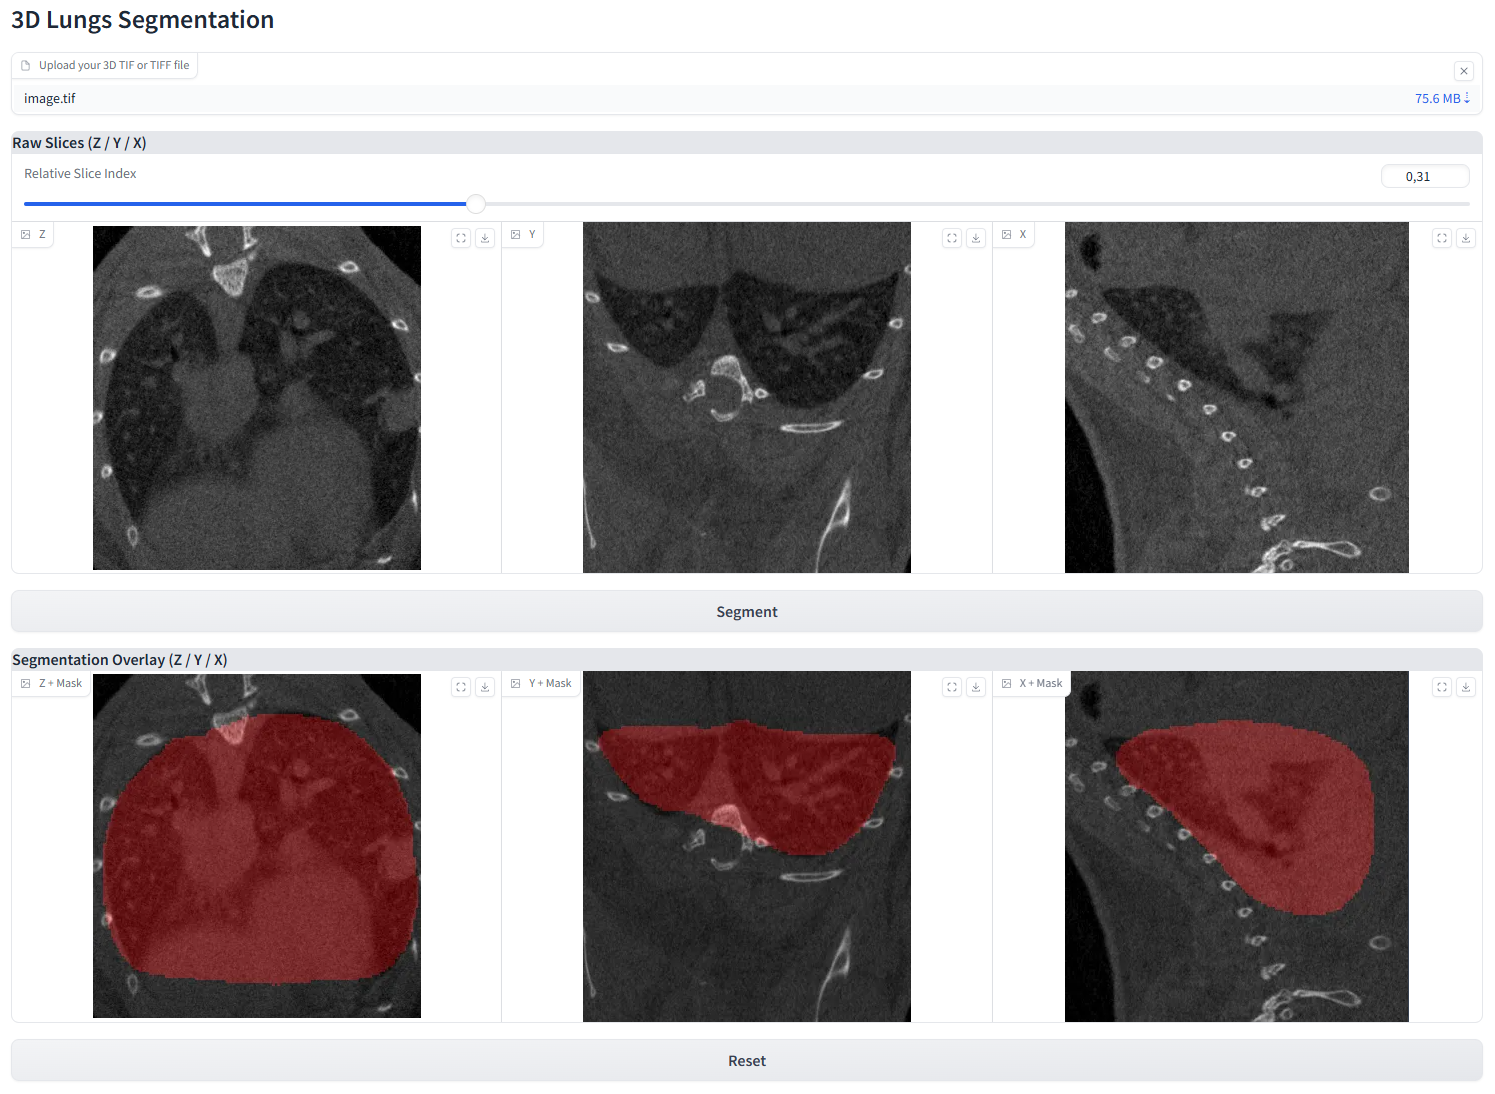
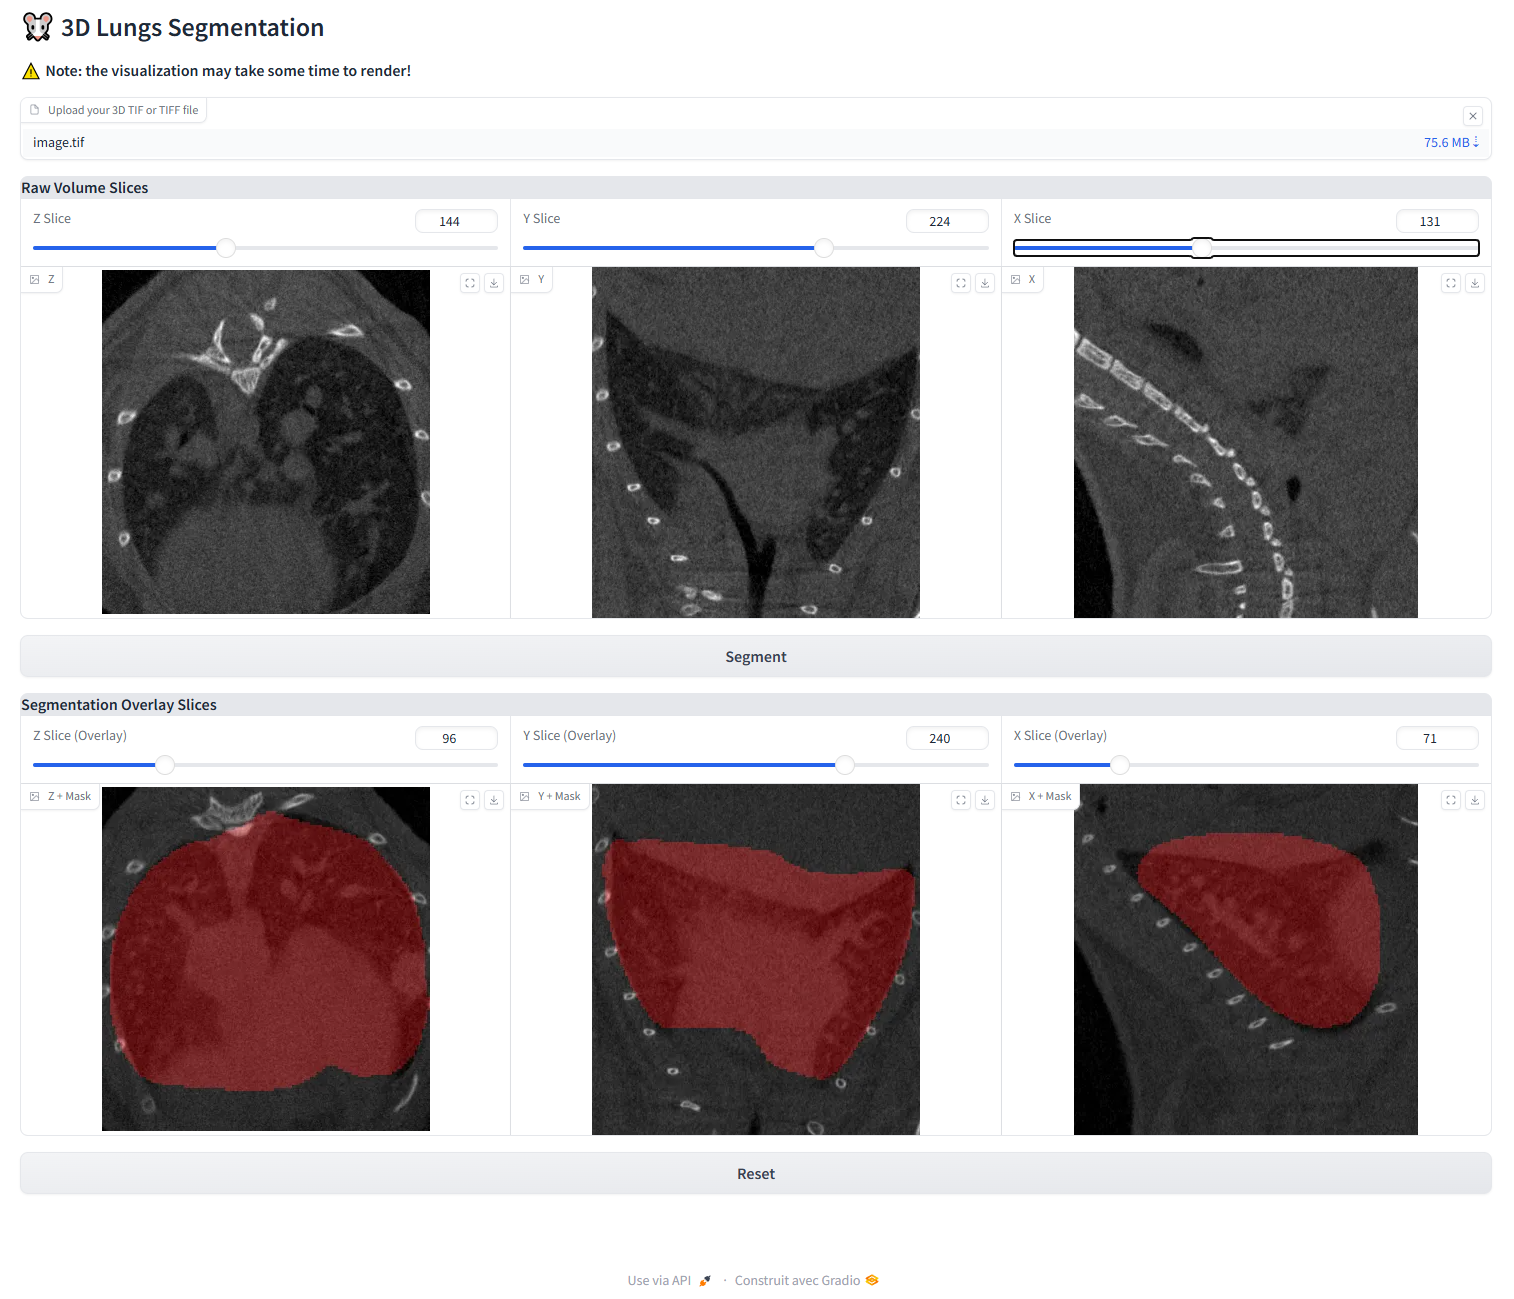
changes to the design of the app

Changed region(s): [[0.0, 0.0, 1.0, 0.9945], [0.2769, 0.2486, 0.3077, 0.2797]]

diff --git a/app.py b/app.py
@@ -1,60 +1,67 @@
 import gradio as gr
 from core.utils import *
 
+def get_axis_max(volume, axis):
+    """Get the maximum index of each axis."""
+    if volume is None:
+        return 0
+    shape = volume.shape
+    return shape[{"Z": 0, "Y": 1, "X": 2}[axis]] - 1
+
 def reset_app():
-    """
-    Reset everything to the initial state:
-      - Clear file input
-      - Clear volume_state, seg_state
-      - Hide both groups
-      - Hide the segment button
-      - Reset sliders + images
-    """
+    """Reset everything to the initial state."""
     return (
         gr.update(value=None),
         None,
         None,
         gr.update(visible=False),
-        gr.update(value=0.5),
-        gr.update(value=None),
-        gr.update(value=None),
-        gr.update(value=None),
+        gr.update(value=0), gr.update(value=0), gr.update(value=0),
+        gr.update(value=None), gr.update(value=None), gr.update(value=None),
         gr.update(visible=False),
-        gr.update(value=None),
-        gr.update(value=None),
-        gr.update(value=None),
+        gr.update(value=0), gr.update(value=0), gr.update(value=0),
+        gr.update(value=None), gr.update(value=None), gr.update(value=None)
     )
 
 with gr.Blocks() as demo:
-    gr.Markdown("# 3D Lungs Segmentation")
+    gr.Markdown("# 🐭 3D Lungs Segmentation")
+    gr.Markdown("### ⚠ Note: the visualization may take some time to render!")
 
     volume_state = gr.State()
     seg_state = gr.State()
 
     file_input = gr.File(file_types=[".tif", ".tiff"], label="Upload your 3D TIF or TIFF file")
 
-    # --- Raw Slice Viewer ---
+    # ---- RAW SLICES VIEWER ----
     with gr.Group(visible=False) as group_input:
-        gr.Markdown("### Raw Slices (Z / Y / X)")
-        rel_slider = gr.Slider(0, 1, step=0.01, value=0.5, label="Relative Slice Index")
+        gr.Markdown("### Raw Volume Slices")
         with gr.Row():
-            img_z = gr.Image(label="Z")
-            img_y = gr.Image(label="Y")
-            img_x = gr.Image(label="X")
+            z_slider = gr.Slider(0, 0, step=1, label="Z Slice")
+            y_slider = gr.Slider(0, 0, step=1, label="Y Slice")
+            x_slider = gr.Slider(0, 0, step=1, label="X Slice")
+        with gr.Row():
+            z_img = gr.Image(label="Z")
+            y_img = gr.Image(label="Y")
+            x_img = gr.Image(label="X")
 
-    segment_btn = gr.Button("Segment", visible=False)
+    segment_btn = gr.Button("Segment", visible=False)   
 
-    # --- Overlay Viewer ---
+    # ---- OVERLAY SLICES VIEWER ----
     with gr.Group(visible=False) as group_seg:
-        gr.Markdown("### Segmentation Overlay (Z / Y / X)")
+        gr.Markdown("### Segmentation Overlay Slices")
         with gr.Row():
-            img_z_overlay = gr.Image(label="Z + Mask")
-            img_y_overlay = gr.Image(label="Y + Mask")
-            img_x_overlay = gr.Image(label="X + Mask")
+            z_slider_seg = gr.Slider(0, 0, step=1, label="Z Slice (Overlay)")
+            y_slider_seg = gr.Slider(0, 0, step=1, label="Y Slice (Overlay)")
+            x_slider_seg = gr.Slider(0, 0, step=1, label="X Slice (Overlay)")
+        with gr.Row():
+            z_img_overlay = gr.Image(label="Z + Mask")
+            y_img_overlay = gr.Image(label="Y + Mask")
+            x_img_overlay = gr.Image(label="X + Mask")
 
     reset_btn = gr.Button("Reset")
 
-    # A) On file upload → load → update state → show viewer → trigger image view
+    # ---- CALLBACKS ----
+
+    # A) Load volume
     file_input.change(
         fn=load_volume,
         inputs=file_input,
@@ -68,19 +75,29 @@ with gr.Blocks() as demo:
         inputs=volume_state,
         outputs=segment_btn
     ).then(
-        fn=browse_all_axes,
-        inputs=[rel_slider, volume_state],
-        outputs=[img_z, img_y, img_x]
+        fn=lambda vol: (
+            gr.update(maximum=get_axis_max(vol, "Z")),
+            gr.update(maximum=get_axis_max(vol, "Y")),
+            gr.update(maximum=get_axis_max(vol, "X")),
+        ),
+        inputs=volume_state,
+        outputs=[z_slider, y_slider, x_slider]
+    ).then(
+        fn=lambda vol: (
+            browse_axis("Z", 0, vol),
+            browse_axis("Y", 0, vol),
+            browse_axis("X", 0, vol),
+        ),
+        inputs=volume_state,
+        outputs=[z_img, y_img, x_img]
     )
 
-    # B) Slider changes raw slices
-    rel_slider.change(
-        fn=browse_all_axes,
-        inputs=[rel_slider, volume_state],
-        outputs=[img_z, img_y, img_x]
-    )
+    # B) RAW sliders
+    z_slider.change(fn=lambda idx, vol: browse_axis("Z", idx, vol), inputs=[z_slider, volume_state], outputs=z_img)
+    y_slider.change(fn=lambda idx, vol: browse_axis("Y", idx, vol), inputs=[y_slider, volume_state], outputs=y_img)
+    x_slider.change(fn=lambda idx, vol: browse_axis("X", idx, vol), inputs=[x_slider, volume_state], outputs=x_img)
 
-    # C) Segment → store state → show overlays
+    # C) Segment
     segment_btn.click(
         fn=segment_volume,
         inputs=volume_state,
@@ -90,19 +107,29 @@ with gr.Blocks() as demo:
         inputs=seg_state,
         outputs=group_seg
     ).then(
-        fn=browse_overlay_all_axes,
-        inputs=[rel_slider, volume_state, seg_state],
-        outputs=[img_z_overlay, img_y_overlay, img_x_overlay]
+        fn=lambda vol: (
+            gr.update(maximum=get_axis_max(vol, "Z")),
+            gr.update(maximum=get_axis_max(vol, "Y")),
+            gr.update(maximum=get_axis_max(vol, "X")),
+        ),
+        inputs=volume_state,
+        outputs=[z_slider_seg, y_slider_seg, x_slider_seg]
+    ).then(
+        fn=lambda z, y, x, vol, seg: (
+            browse_overlay_axis("Z", z, vol, seg),
+            browse_overlay_axis("Y", y, vol, seg),
+            browse_overlay_axis("X", x, vol, seg),
+        ),
+        inputs=[z_slider_seg, y_slider_seg, x_slider_seg, volume_state, seg_state],
+        outputs=[z_img_overlay, y_img_overlay, x_img_overlay]
     )
 
-    # D) Slider changes overlays too
-    rel_slider.change(
-        fn=browse_overlay_all_axes,
-        inputs=[rel_slider, volume_state, seg_state],
-        outputs=[img_z_overlay, img_y_overlay, img_x_overlay]
-    )
+    # D) OVERLAY sliders
+    z_slider_seg.change(fn=lambda idx, vol, seg: browse_overlay_axis("Z", idx, vol, seg), inputs=[z_slider_seg, volume_state, seg_state], outputs=z_img_overlay)
+    y_slider_seg.change(fn=lambda idx, vol, seg: browse_overlay_axis("Y", idx, vol, seg), inputs=[y_slider_seg, volume_state, seg_state], outputs=y_img_overlay)
+    x_slider_seg.change(fn=lambda idx, vol, seg: browse_overlay_axis("X", idx, vol, seg), inputs=[x_slider_seg, volume_state, seg_state], outputs=x_img_overlay)
 
-    # E) Reset everything
+    # E) Reset
     reset_btn.click(
         fn=reset_app,
         inputs=[],
@@ -111,14 +138,11 @@ with gr.Blocks() as demo:
             volume_state,
             seg_state,
             group_input,
-            rel_slider,
-            img_z,
-            img_y,
-            img_x,
+            z_slider, y_slider, x_slider,
+            z_img, y_img, x_img,
             group_seg,
-            img_z_overlay,
-            img_y_overlay,
-            img_x_overlay
+            z_slider_seg, y_slider_seg, x_slider_seg,
+            z_img_overlay, y_img_overlay, x_img_overlay
         ]
     )
 

diff --git a/core/utils.py b/core/utils.py
@@ -27,51 +27,44 @@ def segment_volume(volume):
         return None
     return model.segment_lungs(volume)
 
-def browse_all_axes(relative_idx, volume):
-    """Return raw Z/Y/X slices at relative index."""
+def browse_axis(axis, idx, volume):
+    """Return a single raw slice for the given axis."""
     if volume is None:
-        return None, None, None
+        return None
 
-    z, y, x = volume.shape
-    idx_z = int(relative_idx * (z - 1))
-    idx_y = int(relative_idx * (y - 1))
-    idx_x = int(relative_idx * (x - 1))
+    if axis == "Z":
+        slice_ = volume[idx]
+    elif axis == "Y":
+        slice_ = volume[:, idx, :]
+    elif axis == "X":
+        slice_ = volume[:, :, idx]
+    else:
+        return None
 
-    slice_z = _to_8bit(volume[idx_z])
-    slice_y = _to_8bit(volume[:, idx_y, :])
-    slice_x = _to_8bit(volume[:, :, idx_x])
+    return Image.fromarray(_to_8bit(slice_))
 
-    return (
-        Image.fromarray(slice_z),
-        Image.fromarray(slice_y),
-        Image.fromarray(slice_x)
-    )
-
-def browse_overlay_all_axes(relative_idx, volume, seg):
-    """Return overlay Z/Y/X slices at relative index."""
+def browse_overlay_axis(axis, idx, volume, seg):
+    """Return a single overlay slice for the given axis."""
     if volume is None or seg is None:
-        return None, None, None
+        return None
 
-    z, y, x = volume.shape
-    idx_z = int(relative_idx * (z - 1))
-    idx_y = int(relative_idx * (y - 1))
-    idx_x = int(relative_idx * (x - 1))
+    if axis == "Z":
+        raw = volume[idx]
+        mask = seg[idx]
+    elif axis == "Y":
+        raw = volume[:, idx, :]
+        mask = seg[:, idx, :]
+    elif axis == "X":
+        raw = volume[:, :, idx]
+        mask = seg[:, :, idx]
+    else:
+        return None
 
-    slices = [
-        (volume[idx_z], seg[idx_z]),
-        (volume[:, idx_y, :], seg[:, idx_y, :]),
-        (volume[:, :, idx_x], seg[:, :, idx_x]),
-    ]
+    raw_8bit = _to_8bit(raw)
+    raw_rgb = np.stack([raw_8bit] * 3, axis=-1)
+    mask_rgb = np.zeros_like(raw_rgb)
+    mask_rgb[..., 0] = (mask * 255).astype(np.uint8)
 
-    result = []
-    for raw_slice, seg_slice in slices:
-        raw_8bit = _to_8bit(raw_slice)
-        raw_rgb = np.stack([raw_8bit] * 3, axis=-1)
-        mask_rgb = np.zeros_like(raw_rgb)
-        mask_rgb[..., 0] = (seg_slice * 255).astype(np.uint8)
-
-        alpha = 0.3
-        blended = (1 - alpha) * raw_rgb + alpha * mask_rgb
-        result.append(Image.fromarray(blended.astype(np.uint8)))
-
-    return tuple(result)
+    alpha = 0.3
+    blended = (1 - alpha) * raw_rgb + alpha * mask_rgb
+    return Image.fromarray(blended.astype(np.uint8))

diff --git a/README.md b/README.md
@@ -2,7 +2,7 @@
 A web-based application for automated lung segmentation using deep learning, powered by **Gradio** and **PyTorch**. This tool allows users to upload lung images and obtain segmented outputs efficiently.
 
 <p align="center">
-    <img src="images/app.png" height="600">
+    <img src="images/app.png" height="700">
 </p>
 
 ## Installation
